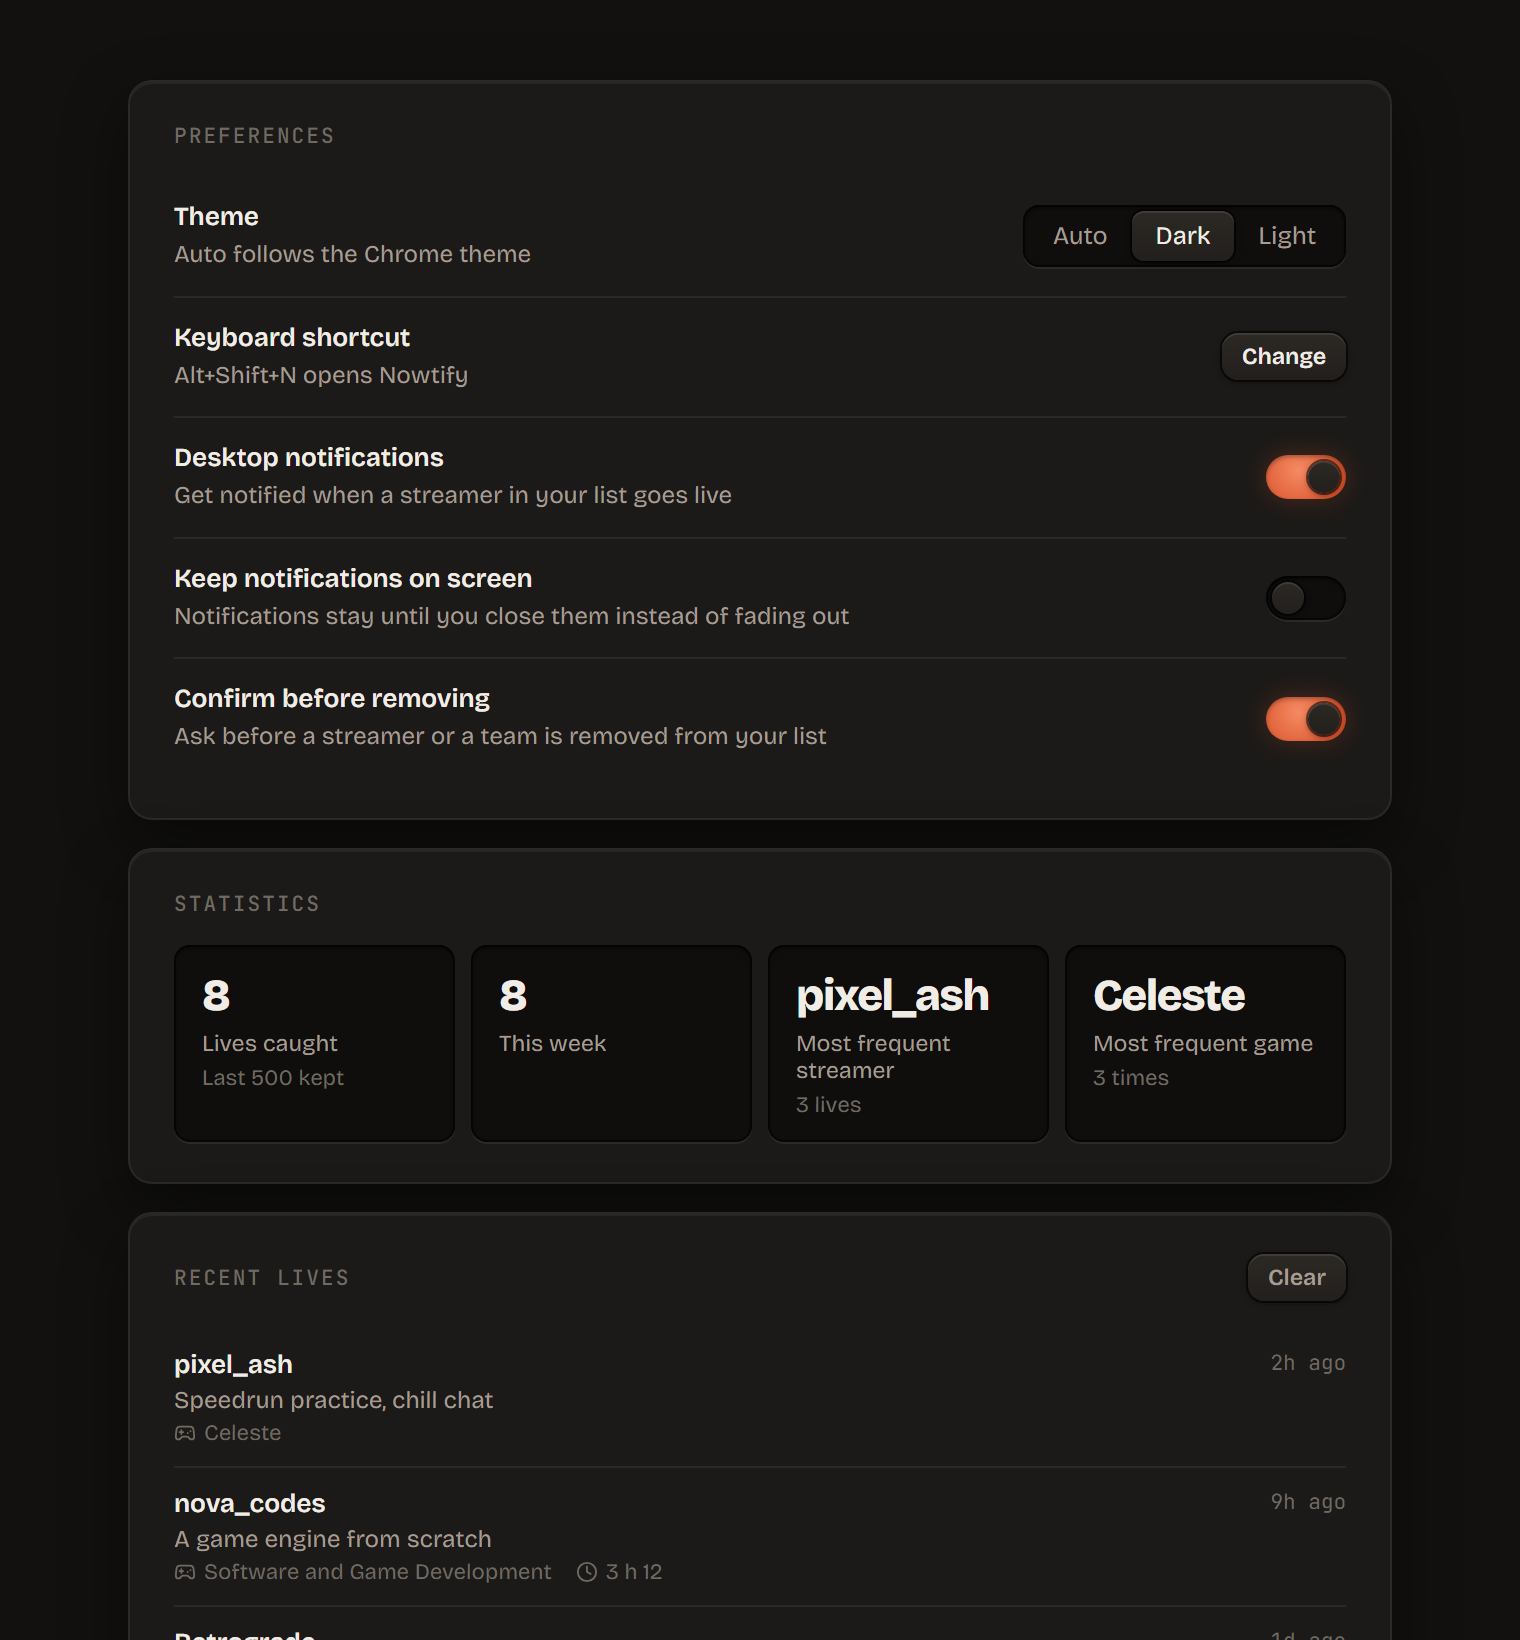
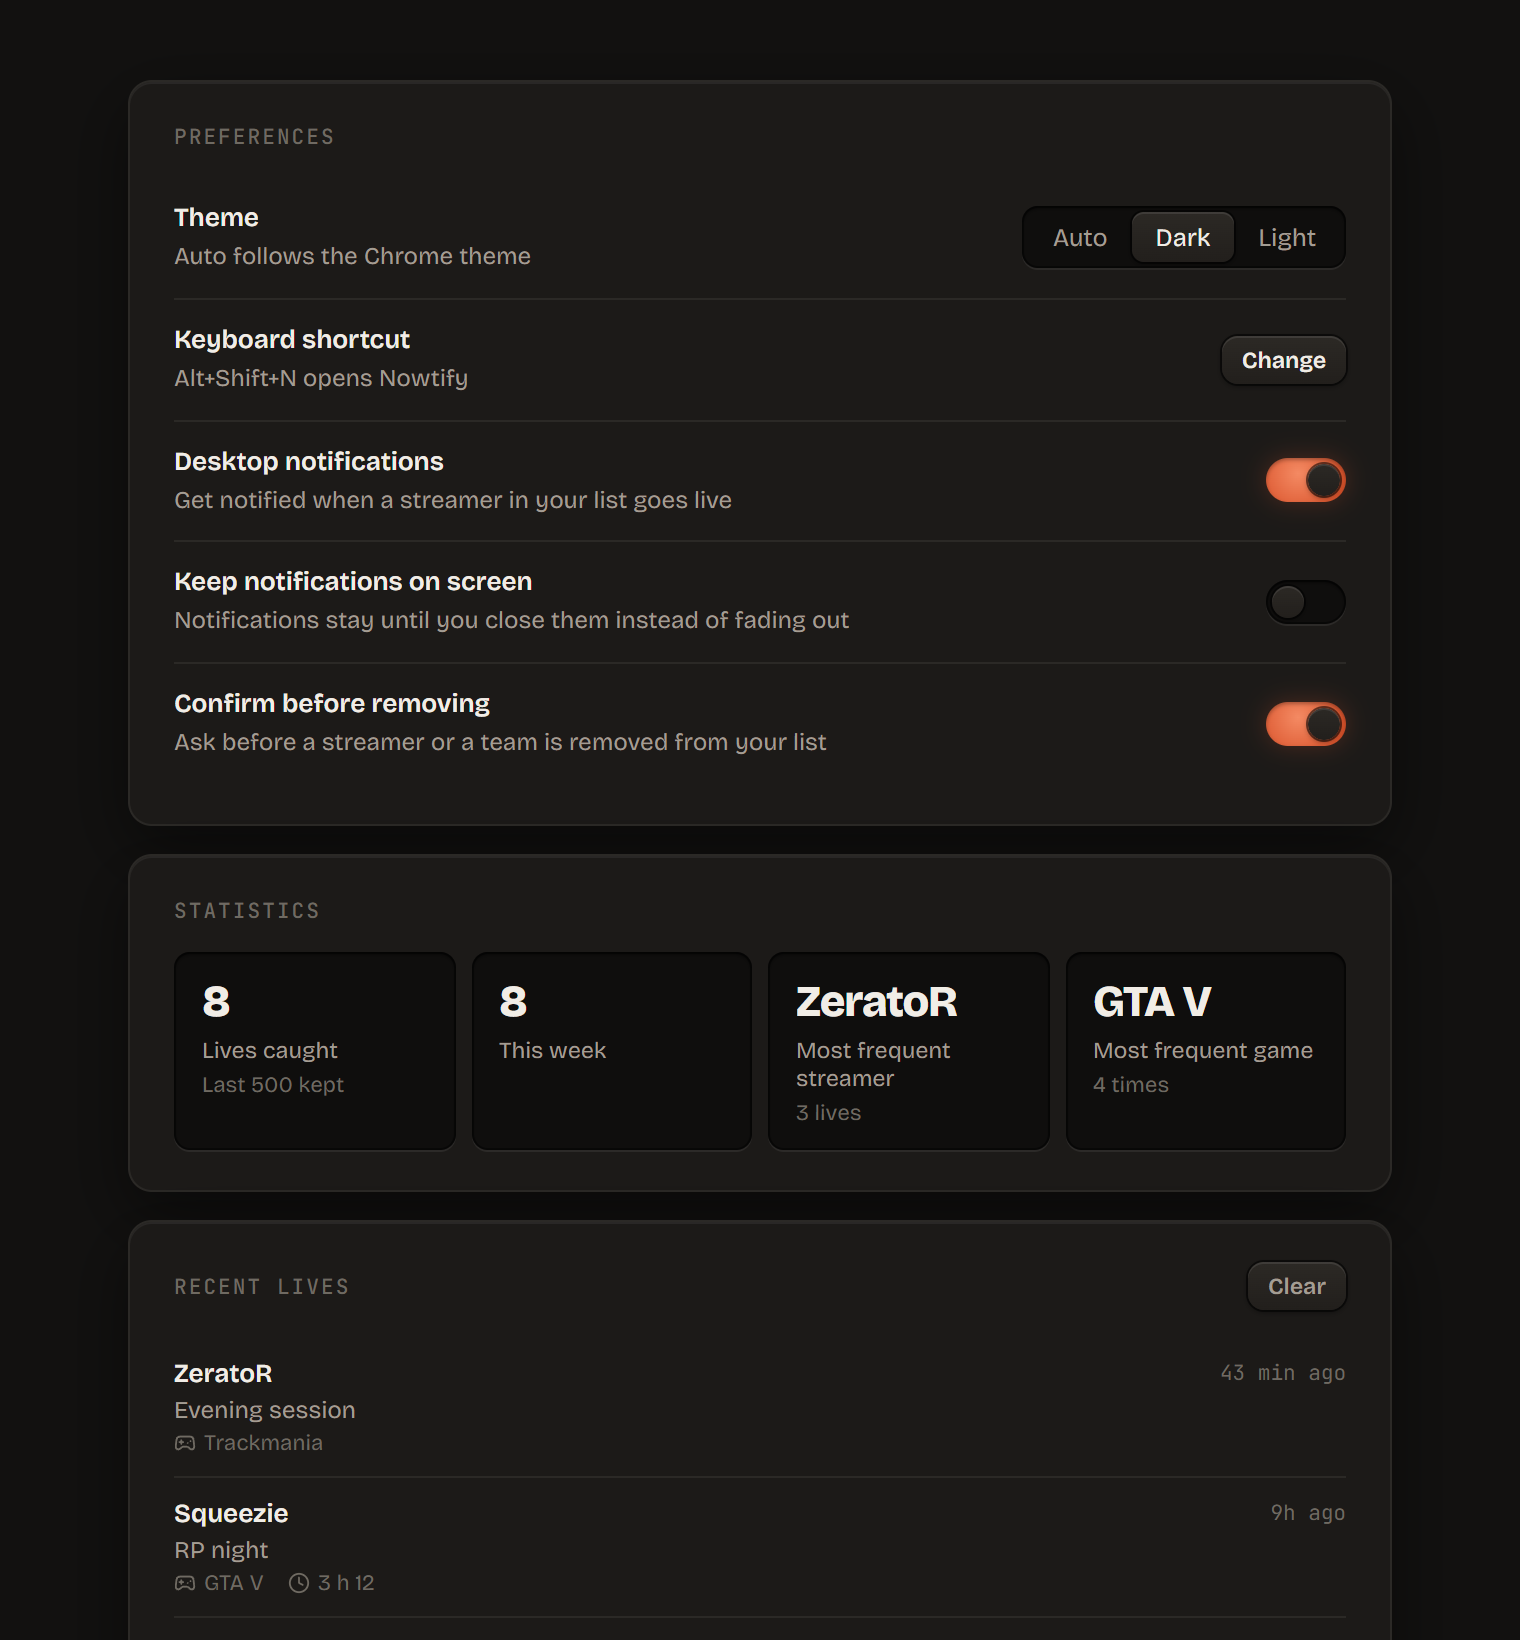
✨ feat: show real streamers on the landing with a legal notice page

diff --git a/landing/legal.html b/landing/legal.html
@@ -1,0 +1,170 @@
+<!doctype html>
+<html lang="en">
+  <head>
+    <meta charset="UTF-8" />
+    <meta name="viewport" content="width=device-width, initial-scale=1" />
+    <meta
+      http-equiv="Content-Security-Policy"
+      content="default-src 'none'; script-src 'self'; style-src 'self'; img-src 'self'; font-src 'self'; base-uri 'none'; form-action 'none'"
+    />
+    <meta name="referrer" content="strict-origin-when-cross-origin" />
+    <title>Nowtify legal notice</title>
+    <meta
+      name="description"
+      content="Who publishes Nowtify, who hosts the site, and why real streamers appear in the examples without being affiliated."
+    />
+    <meta name="theme-color" content="#e8e6e1" media="(prefers-color-scheme: light)" />
+    <meta name="theme-color" content="#121110" media="(prefers-color-scheme: dark)" />
+    <link rel="icon" href="favicon.ico" sizes="32x32" />
+    <link rel="icon" href="assets/img/logo.svg" type="image/svg+xml" />
+    <link rel="stylesheet" href="assets/site.css" />
+  </head>
+  <body>
+    <header class="topbar">
+      <div class="wrap">
+        <a class="brand" href="index.html" aria-label="Nowtify">
+          <img src="assets/img/logo.svg" alt="" width="28" height="28" />
+          <span>Nowtify</span>
+        </a>
+        <nav>
+          <a class="text" href="index.html" data-i18n="nav.back">Back to the home page</a>
+          <button type="button" class="lang-switch">FR</button>
+        </nav>
+      </div>
+    </header>
+
+    <main class="wrap doc">
+      <p class="kicker" data-i18n="updated">Last updated on October 4, 2026</p>
+      <h1 data-i18n="title">Legal notice</h1>
+      <p class="summary" data-i18n="summary">
+        Short version: Nowtify is an independent side project. The streamers you see on this site are
+        examples, they have nothing to do with it.
+      </p>
+
+      <h2 data-i18n="publisher.title">Who publishes it</h2>
+      <p data-i18n="publisher.text">
+        Nowtify is a free, open source and non commercial project made by qyrn. The full source code is public
+        on GitHub.
+      </p>
+      <p>
+        <span data-i18n="publisher.contact">Contact:</span>
+        <a href="mailto:contact@qyrn.dev">contact@qyrn.dev</a>
+      </p>
+
+      <h2 data-i18n="host.title">Who hosts the site</h2>
+      <p data-i18n="host.text">
+        Vercel Inc., 440 N Barranca Ave #4133, Covina, CA 91723, United States (vercel.com).
+      </p>
+
+      <h2 data-i18n="affiliation.title">No affiliation</h2>
+      <p data-i18n="affiliation.text">
+        Nowtify is not affiliated with, sponsored by or endorsed by Twitch Interactive, Inc., Google LLC, or
+        any streamer, creator or organization shown on this site. Twitch and Chrome are trademarks of their
+        respective owners.
+      </p>
+
+      <h2 data-i18n="examples.title">Streamers in the examples</h2>
+      <ul>
+        <li data-i18n="examples.use">
+          The names, avatars and team logos visible in the screenshots and the video are only there to show
+          how the extension works. They belong to their owners.
+        </li>
+        <li data-i18n="examples.numbers">
+          Viewer counts, stream titles and schedules in these examples are made up. They are not real data.
+        </li>
+        <li data-i18n="examples.removal">
+          If you appear on this site and want to be removed, write to contact@qyrn.dev and it will be taken
+          down.
+        </li>
+      </ul>
+
+      <h2 data-i18n="data.title">Personal data</h2>
+      <p data-i18n="data.text">
+        This site sets no cookie and runs no analytics. Everything about the data the extension uses, and your
+        rights under the GDPR, is in the privacy policy. You can also contact the CNIL, the French data
+        protection authority (cnil.fr).
+      </p>
+      <p><a href="privacy.html" data-i18n="data.link">Read the privacy policy</a></p>
+
+      <h2 data-i18n="licenses.title">Licenses</h2>
+      <p data-i18n="licenses.text">
+        The code is released under the MIT license. The Bricolage Grotesque and JetBrains Mono fonts are under
+        the SIL Open Font License.
+      </p>
+    </main>
+
+    <footer class="footer">
+      <div class="wrap">
+        <span
+          ><span data-i18n="footer.made">Made by</span>
+          <a href="https://github.com/qyrn" rel="noopener">qyrn</a></span
+        >
+        <nav>
+          <a href="index.html">Nowtify</a>
+          <a href="privacy.html" data-i18n="footer.privacy">Privacy</a>
+          <a href="https://github.com/qyrn/nowtify" rel="noopener">GitHub</a>
+        </nav>
+      </div>
+    </footer>
+
+    <script type="application/json" id="strings">
+      {
+        "en": {
+          "meta.title": "Nowtify legal notice",
+          "meta.description": "Who publishes Nowtify, who hosts the site, and why real streamers appear in the examples without being affiliated.",
+          "lang.switch": "Passer en français",
+          "nav.back": "Back to the home page",
+          "updated": "Last updated on October 4, 2026",
+          "title": "Legal notice",
+          "summary": "Short version: Nowtify is an independent side project. The streamers you see on this site are examples, they have nothing to do with it.",
+          "publisher.title": "Who publishes it",
+          "publisher.text": "Nowtify is a free, open source and non commercial project made by qyrn. The full source code is public on GitHub.",
+          "publisher.contact": "Contact:",
+          "host.title": "Who hosts the site",
+          "host.text": "Vercel Inc., 440 N Barranca Ave #4133, Covina, CA 91723, United States (vercel.com).",
+          "affiliation.title": "No affiliation",
+          "affiliation.text": "Nowtify is not affiliated with, sponsored by or endorsed by Twitch Interactive, Inc., Google LLC, or any streamer, creator or organization shown on this site. Twitch and Chrome are trademarks of their respective owners.",
+          "examples.title": "Streamers in the examples",
+          "examples.use": "The names, avatars and team logos visible in the screenshots and the video are only there to show how the extension works. They belong to their owners.",
+          "examples.numbers": "Viewer counts, stream titles and schedules in these examples are made up. They are not real data.",
+          "examples.removal": "If you appear on this site and want to be removed, write to contact@qyrn.dev and it will be taken down.",
+          "data.title": "Personal data",
+          "data.text": "This site sets no cookie and runs no analytics. Everything about the data the extension uses, and your rights under the GDPR, is in the privacy policy. You can also contact the CNIL, the French data protection authority (cnil.fr).",
+          "data.link": "Read the privacy policy",
+          "licenses.title": "Licenses",
+          "licenses.text": "The code is released under the MIT license. The Bricolage Grotesque and JetBrains Mono fonts are under the SIL Open Font License.",
+          "footer.made": "Made by",
+          "footer.privacy": "Privacy"
+        },
+        "fr": {
+          "meta.title": "Nowtify : mentions légales",
+          "meta.description": "Qui publie Nowtify, qui héberge le site, et pourquoi de vrais streamers apparaissent dans les exemples sans être associés au projet.",
+          "lang.switch": "Switch to English",
+          "nav.back": "Retour à l'accueil",
+          "updated": "Mise à jour le 4 octobre 2026",
+          "title": "Mentions légales",
+          "summary": "En bref : Nowtify est un projet perso indépendant. Les streamers que tu vois sur ce site sont des exemples, ils n'ont rien à voir avec le projet.",
+          "publisher.title": "Qui publie le site",
+          "publisher.text": "Nowtify est un projet gratuit, open source et non commercial, fait par qyrn. Tout le code source est public sur GitHub.",
+          "publisher.contact": "Contact :",
+          "host.title": "Qui héberge le site",
+          "host.text": "Vercel Inc., 440 N Barranca Ave #4133, Covina, CA 91723, États-Unis (vercel.com).",
+          "affiliation.title": "Aucune affiliation",
+          "affiliation.text": "Nowtify n'est ni affilié, ni sponsorisé, ni approuvé par Twitch Interactive, Inc., Google LLC, ni par aucun streamer, créateur ou organisation visible sur ce site. Twitch et Chrome sont des marques de leurs propriétaires respectifs.",
+          "examples.title": "Les streamers des exemples",
+          "examples.use": "Les noms, avatars et logos de team visibles dans les captures et la vidéo sont là uniquement pour montrer comment marche l'extension. Ils appartiennent à leurs propriétaires.",
+          "examples.numbers": "Les viewers, titres de live et plannings de ces exemples sont inventés. Ce ne sont pas de vraies données.",
+          "examples.removal": "Si tu apparais sur ce site et que tu veux être retiré, écris à contact@qyrn.dev et ce sera enlevé.",
+          "data.title": "Données personnelles",
+          "data.text": "Ce site ne pose aucun cookie et ne fait aucune stat. Tout sur les données utilisées par l'extension et tes droits RGPD est dans la politique de confidentialité. Tu peux aussi contacter la CNIL (cnil.fr).",
+          "data.link": "Lire la politique de confidentialité",
+          "licenses.title": "Licences",
+          "licenses.text": "Le code est publié sous licence MIT. Les polices Bricolage Grotesque et JetBrains Mono sont sous licence SIL Open Font License.",
+          "footer.made": "Fait par",
+          "footer.privacy": "Confidentialité"
+        }
+      }
+    </script>
+    <script src="assets/site.js"></script>
+  </body>
+</html>

diff --git a/landing/index.html b/landing/index.html
@@ -106,17 +106,11 @@
                 <time data-i18n="toast.time">now</time>
               </div>
               <div class="toast-body">
-                <img
-                  class="toast-avatar"
-                  src="assets/img/avatar-pixel-ash.png"
-                  alt=""
-                  width="40"
-                  height="40"
-                />
+                <img class="toast-avatar" src="assets/img/avatar-zerator.png" alt="" width="40" height="40" />
                 <div>
-                  <strong data-i18n="toast.title">pixel_ash is live</strong>
-                  <p data-i18n="toast.body">Speedrun practice, chat chill</p>
-                  <small>Celeste</small>
+                  <strong data-i18n="toast.title">ZeratoR is live</strong>
+                  <p data-i18n="toast.body">Evening session</p>
+                  <small>Trackmania</small>
                 </div>
               </div>
             </div>
@@ -150,6 +144,10 @@
               <svg viewBox="0 0 24 24" aria-hidden="true"><path d="M8 5.5v13l10.5-6.5z" /></svg>
             </button>
           </div>
+          <p class="player-note">
+            <span data-i18n="demo.note">Real streamers shown as examples, with no link to Nowtify.</span>
+            <a href="legal.html" data-i18n="footer.legal">Legal notice</a>
+          </p>
         </div>
       </section>
 
@@ -182,11 +180,11 @@
               </div>
               <div class="log-line hit">
                 <span class="log-time">21:05</span><span class="log-kind">check</span
-                ><span class="log-text" data-i18n="log.3">pixel_ash started streaming</span>
+                ><span class="log-text" data-i18n="log.3">ZeratoR started streaming</span>
               </div>
               <div class="log-line hit">
                 <span class="log-time">21:05</span><span class="log-kind">notify</span
-                ><span class="log-text" data-i18n="log.4">"pixel_ash is live"</span>
+                ><span class="log-text" data-i18n="log.4">"ZeratoR is live"</span>
               </div>
               <div class="log-line">
                 <span class="log-time">21:06</span><span class="log-kind">check</span
@@ -229,7 +227,7 @@
           </div>
           <div class="specs">
             <div class="spec">
-              <code>team/nightowls</code>
+              <code>team/karminecorp</code>
               <h3 data-i18n="spec1.title">Whole teams</h3>
               <p data-i18n="spec1.text">
                 Type team/ followed by a Twitch team name to add every member at once, or import the channels
@@ -406,6 +404,7 @@
         >
         <nav>
           <a href="privacy.html" data-i18n="footer.privacy">Privacy</a>
+          <a href="legal.html" data-i18n="footer.legal">Legal notice</a>
           <a
             href="https://chromewebstore.google.com/detail/nowtify/emjhkfephckipmmlecbkmpjphfjalkhg"
             rel="noopener"
@@ -435,17 +434,18 @@
           "demo.title": "The tour in 27 seconds",
           "demo.lede": "Notification, search, mute, theme: everything Nowtify does, with sound.",
           "demo.play": "Play the video",
+          "demo.note": "Real streamers shown as examples, with no link to Nowtify.",
           "hero.alt": "The Nowtify popup with three live streamers and an open stream preview",
           "toast.time": "now",
-          "toast.title": "pixel_ash is live",
-          "toast.body": "Speedrun practice, chat chill",
+          "toast.title": "ZeratoR is live",
+          "toast.body": "Evening session",
           "how.title": "What it does while you do something else",
           "how.lede": "The popup is only the part you see. The real work happens in a background worker that talks straight to Twitch.",
           "how.logAlt": "Example of background checks",
           "log.1": "14 channels, nobody live",
           "log.2": "14 channels, nobody live",
-          "log.3": "pixel_ash started streaming",
-          "log.4": "\"pixel_ash is live\"",
+          "log.3": "ZeratoR started streaming",
+          "log.4": "\"ZeratoR is live\"",
           "log.5": "someone is live, checking every minute",
           "fact1.term": "Every 5 minutes",
           "fact1.text": "It asks Twitch who is live among your channels, up to 100 of them per request.",
@@ -493,7 +493,8 @@
           "faq5.q": "Is it really free?",
           "faq5.a": "Yes, and the code is on GitHub under the MIT license. If you want to chip in, there's a",
           "footer.made": "Made by",
-          "footer.privacy": "Privacy"
+          "footer.privacy": "Privacy",
+          "footer.legal": "Legal notice"
         },
         "fr": {
           "meta.title": "Nowtify : les lives Twitch en notification dans Chrome",
@@ -511,17 +512,18 @@
           "demo.title": "Le tour en 27 secondes",
           "demo.lede": "Notif, recherche, sourdine, thème : tout ce que fait Nowtify, avec le son.",
           "demo.play": "Lancer la vidéo",
+          "demo.note": "De vrais streamers montrés en exemple, sans lien avec Nowtify.",
           "hero.alt": "La popup de Nowtify avec trois streamers en live et un aperçu de stream ouvert",
           "toast.time": "maintenant",
-          "toast.title": "pixel_ash est en live",
-          "toast.body": "Entraînement speedrun, chat posé",
+          "toast.title": "ZeratoR est en live",
+          "toast.body": "Session du soir",
           "how.title": "Ce qu'elle fait pendant que tu fais autre chose",
           "how.lede": "La popup, c'est juste la partie visible. Le vrai boulot se fait en arrière-plan, directement avec Twitch.",
           "how.logAlt": "Exemple de vérifications en arrière-plan",
           "log.1": "14 chaînes, personne en live",
           "log.2": "14 chaînes, personne en live",
-          "log.3": "pixel_ash vient de lancer son live",
-          "log.4": "« pixel_ash est en live »",
+          "log.3": "ZeratoR vient de lancer son live",
+          "log.4": "« ZeratoR est en live »",
           "log.5": "quelqu'un est en live, vérif chaque minute",
           "fact1.term": "Toutes les 5 minutes",
           "fact1.text": "Elle demande à Twitch qui est en live parmi tes chaînes, jusqu'à 100 par requête.",
@@ -569,7 +571,8 @@
           "faq5.q": "C'est vraiment gratuit ?",
           "faq5.a": "Oui, et le code est sur GitHub sous licence MIT. Si tu veux donner un coup de pouce, il y a un",
           "footer.made": "Fait par",
-          "footer.privacy": "Confidentialité"
+          "footer.privacy": "Confidentialité",
+          "footer.legal": "Mentions légales"
         }
       }
     </script>

diff --git a/landing/privacy.html b/landing/privacy.html
@@ -152,6 +152,7 @@
         >
         <nav>
           <a href="index.html">Nowtify</a>
+          <a href="legal.html" data-i18n="footer.legal">Legal notice</a>
           <a href="https://github.com/qyrn/nowtify" rel="noopener">GitHub</a>
           <a href="https://ko-fi.com/qyrnsec" rel="noopener">Ko-fi</a>
         </nav>
@@ -193,6 +194,7 @@
           "contact.title": "Contact",
           "contact.text": "Questions about this policy:",
           "footer.made": "Made by",
+          "footer.legal": "Legal notice",
           "stored.follows": "If you use the follows import, the names of the channels you follow on Twitch, in Chrome's local extension storage. Nowtify uses them to put those channels first in the search, refreshes them at most once a day, and deletes them when you disconnect."
         },
         "fr": {
@@ -228,6 +230,7 @@
           "contact.title": "Contact",
           "contact.text": "Une question sur cette politique :",
           "footer.made": "Fait par",
+          "footer.legal": "Mentions légales",
           "stored.follows": "Si tu utilises l'import de tes follows, les noms des chaînes que tu suis sur Twitch, dans le stockage local de l'extension. Nowtify s'en sert pour les mettre en tête de la recherche, les rafraîchit au plus une fois par jour, et les supprime quand tu te déconnectes."
         }
       }

diff --git a/landing/assets/site.css b/landing/assets/site.css
@@ -473,6 +473,16 @@ section {
   fill: #fff;
 }
 
+.player-note {
+  margin-top: 14px;
+  color: var(--faint);
+  font-size: 13px;
+}
+
+.player-note a {
+  color: var(--dim);
+}
+
 .player.playing .play {
   opacity: 0;
   pointer-events: none;
